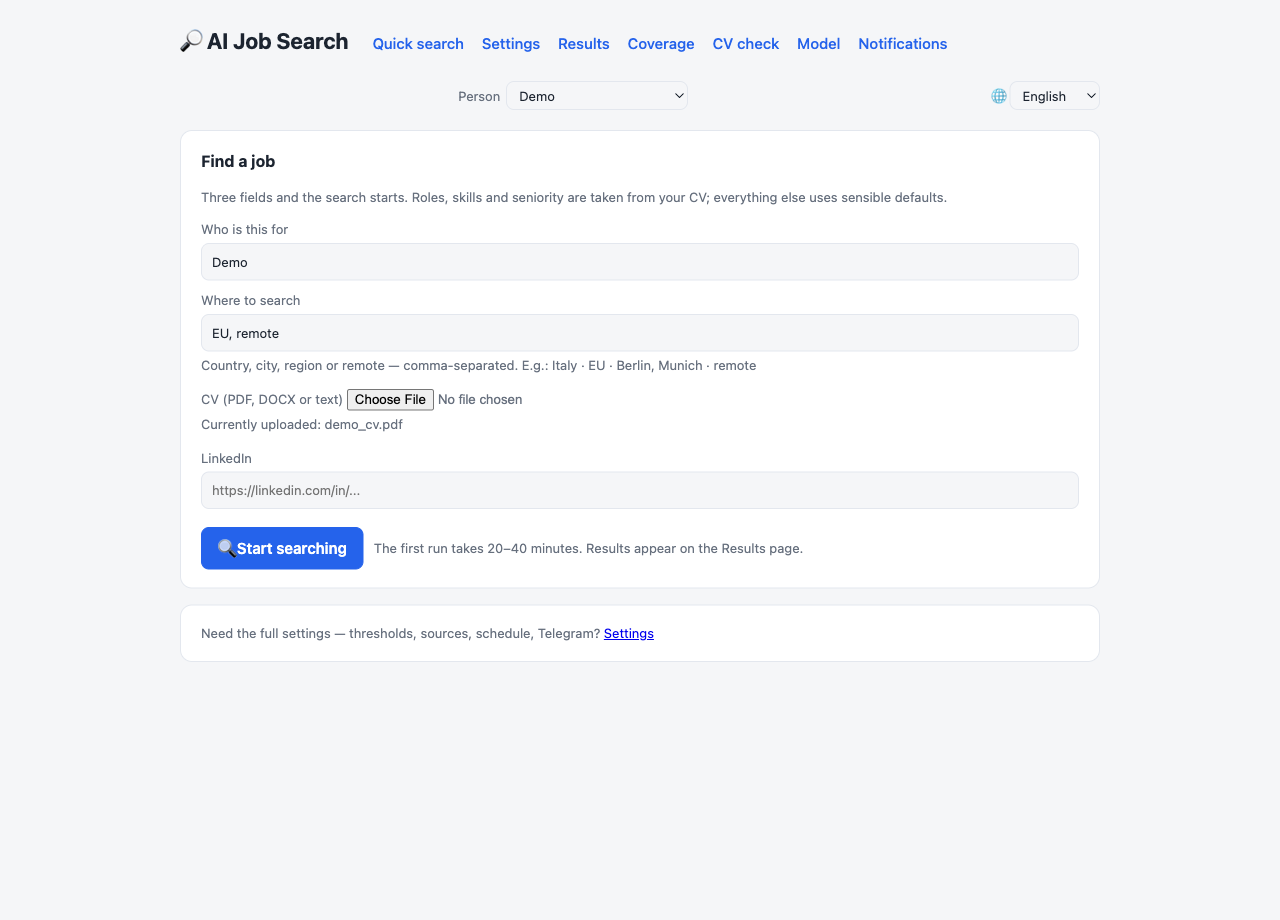
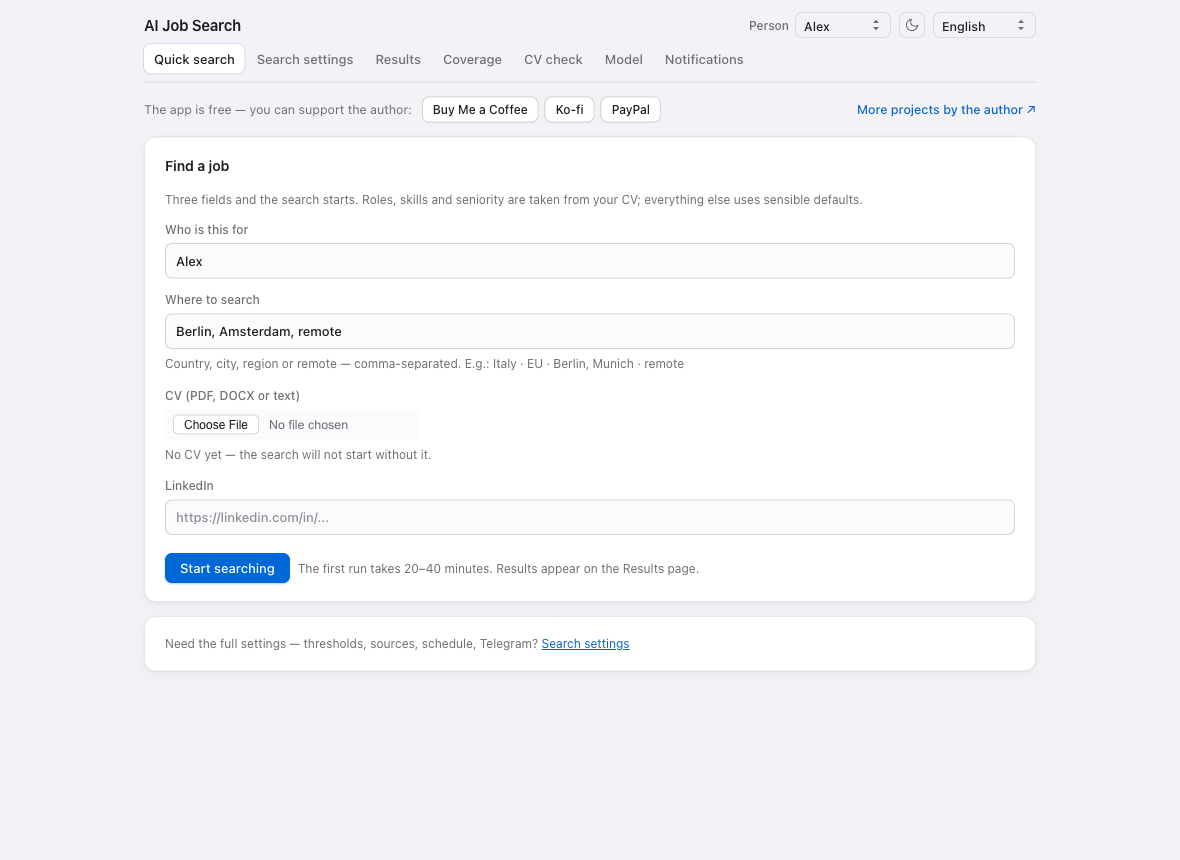
Show the app in the README, and refresh the landing shots
Anyone arriving at the repository saw a wall of text describing a graphical
program. The four screenshots now at the top do the describing: a scored
list, one job opened up with the CV edits, the three-field start, and the
model picker. They come in pairs so GitHub shows whichever suits the reader's
theme, and the caption says the profile in them is invented — no real person,
company or vacancy is on display.

The landing page images were five days stale: taken before the dark theme,
the back-to-top button and the support line existed. Same shots, retaken.

diff --git a/README.md b/README.md
@@ -8,6 +8,42 @@
 Всё работает на вашем компьютере: вакансии, резюме и оценки никуда не уходят,
 кроме самой модели.
 
+<!-- Снимки парные: GitHub показывает тот, что подходит теме читателя.
+     Данные на них выдуманные — ни людей, ни компаний, ни вакансий. -->
+<picture>
+  <source media="(prefers-color-scheme: dark)" srcset="docs/img/results-dark.png">
+  <img src="docs/img/results.png" alt="Страница результатов: фильтры и карточки вакансий с оценкой совпадения, пояснением и бейджами «напрямую от компании» и «проверено»." width="900">
+</picture>
+
+Каждая находка получает оценку и объяснение, а не просто попадает в список.
+Для тех, что прошли порог, — что поправить в резюме и в профиле LinkedIn, с чего
+начать отклик и кнопка «CV под эту вакансию».
+
+<picture>
+  <source media="(prefers-color-scheme: dark)" srcset="docs/img/advice-dark.png">
+  <img src="docs/img/advice.png" alt="Раскрытая карточка: зарплатная вилка и факты о компании со ссылками, список правок в CV и LinkedIn, кнопка генерации адаптированного резюме." width="900">
+</picture>
+
+Начать нужно с трёх полей. Остальные настройки есть, но лежат отдельно и ждут,
+пока понадобятся.
+
+<picture>
+  <source media="(prefers-color-scheme: dark)" srcset="docs/img/quick-search-dark.png">
+  <img src="docs/img/quick-search.png" alt="Страница быстрого поиска: для кого ищем, где искать, файл резюме и кнопка «Начать поиск»." width="900">
+</picture>
+
+Считает не сама программа, а модель на ваш выбор: Claude Code, Cursor CLI или
+локальная через Ollama. Программа показывает, что из этого уже установлено и
+хватит ли памяти вашей машине.
+
+<picture>
+  <source media="(prefers-color-scheme: dark)" srcset="docs/img/models-dark.png">
+  <img src="docs/img/models.png" alt="Страница выбора модели: три карточки провайдеров с отметками об установке и веб-поиске, строка про память компьютера." width="900">
+</picture>
+
+Снимки сделаны на выдуманном профиле: людей, компаний и вакансий на них
+не существует.
+
 ## Установка
 
 Приложение открывается как обычная программа — окно, никакого терминала.
